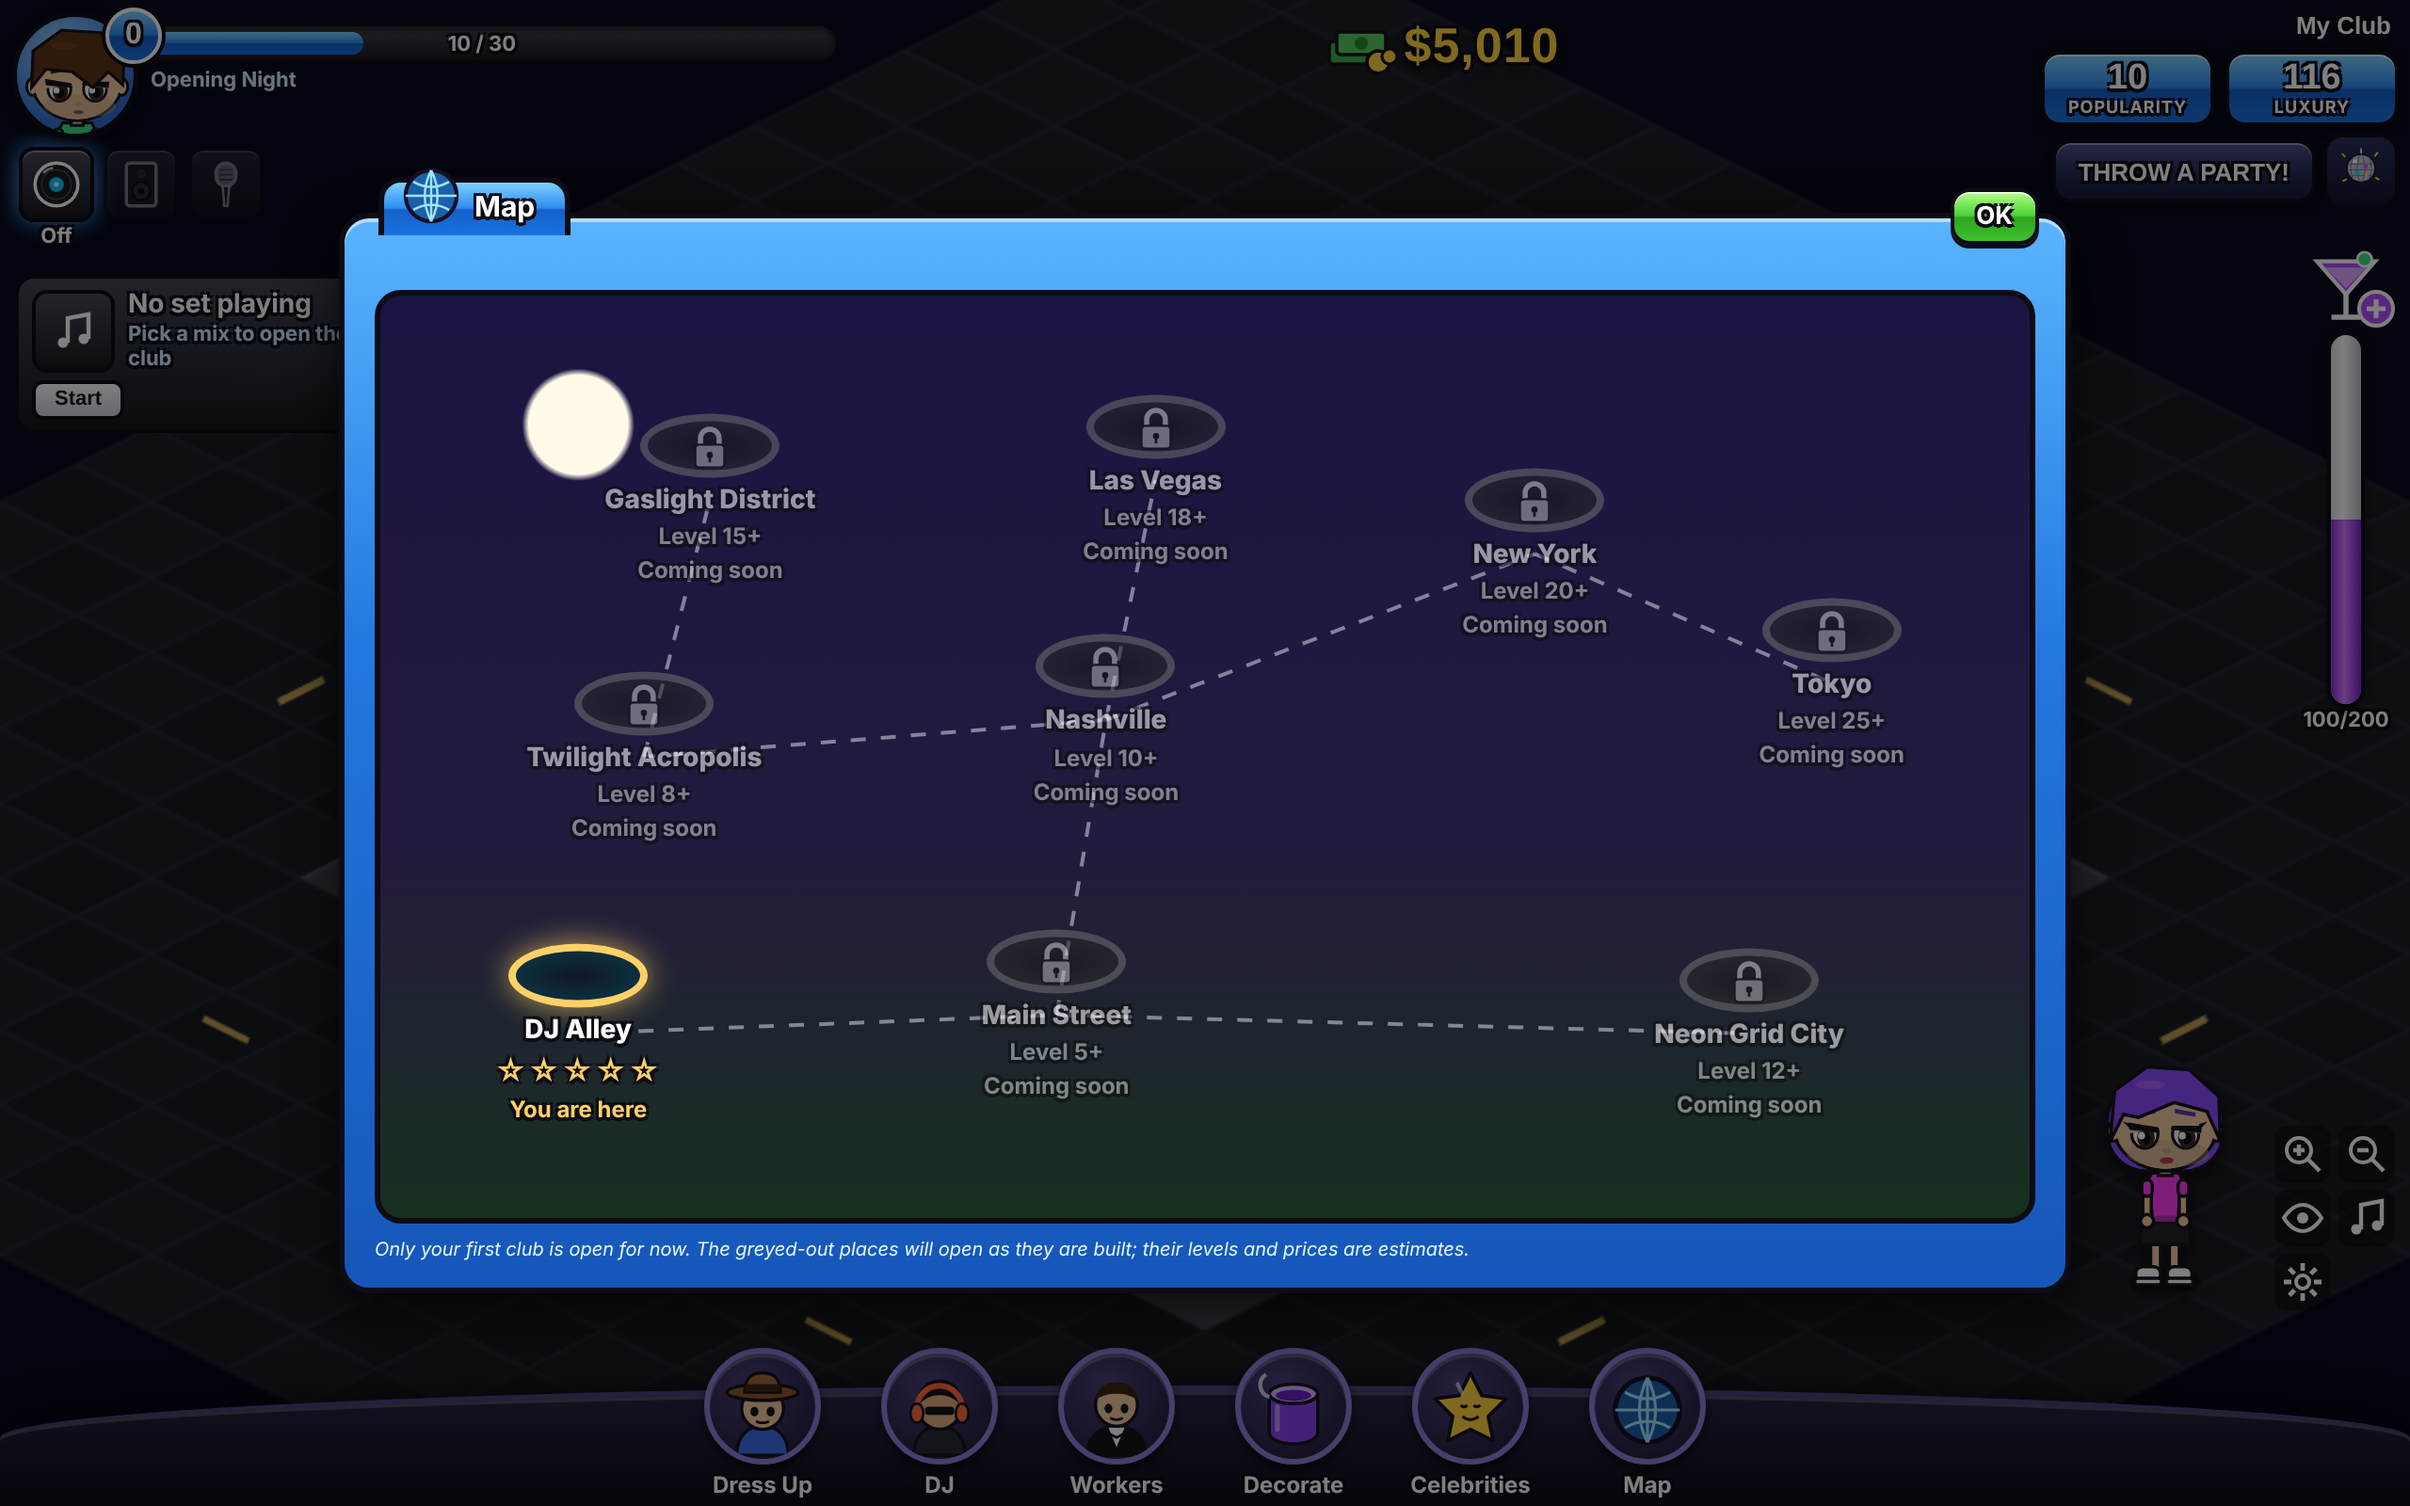
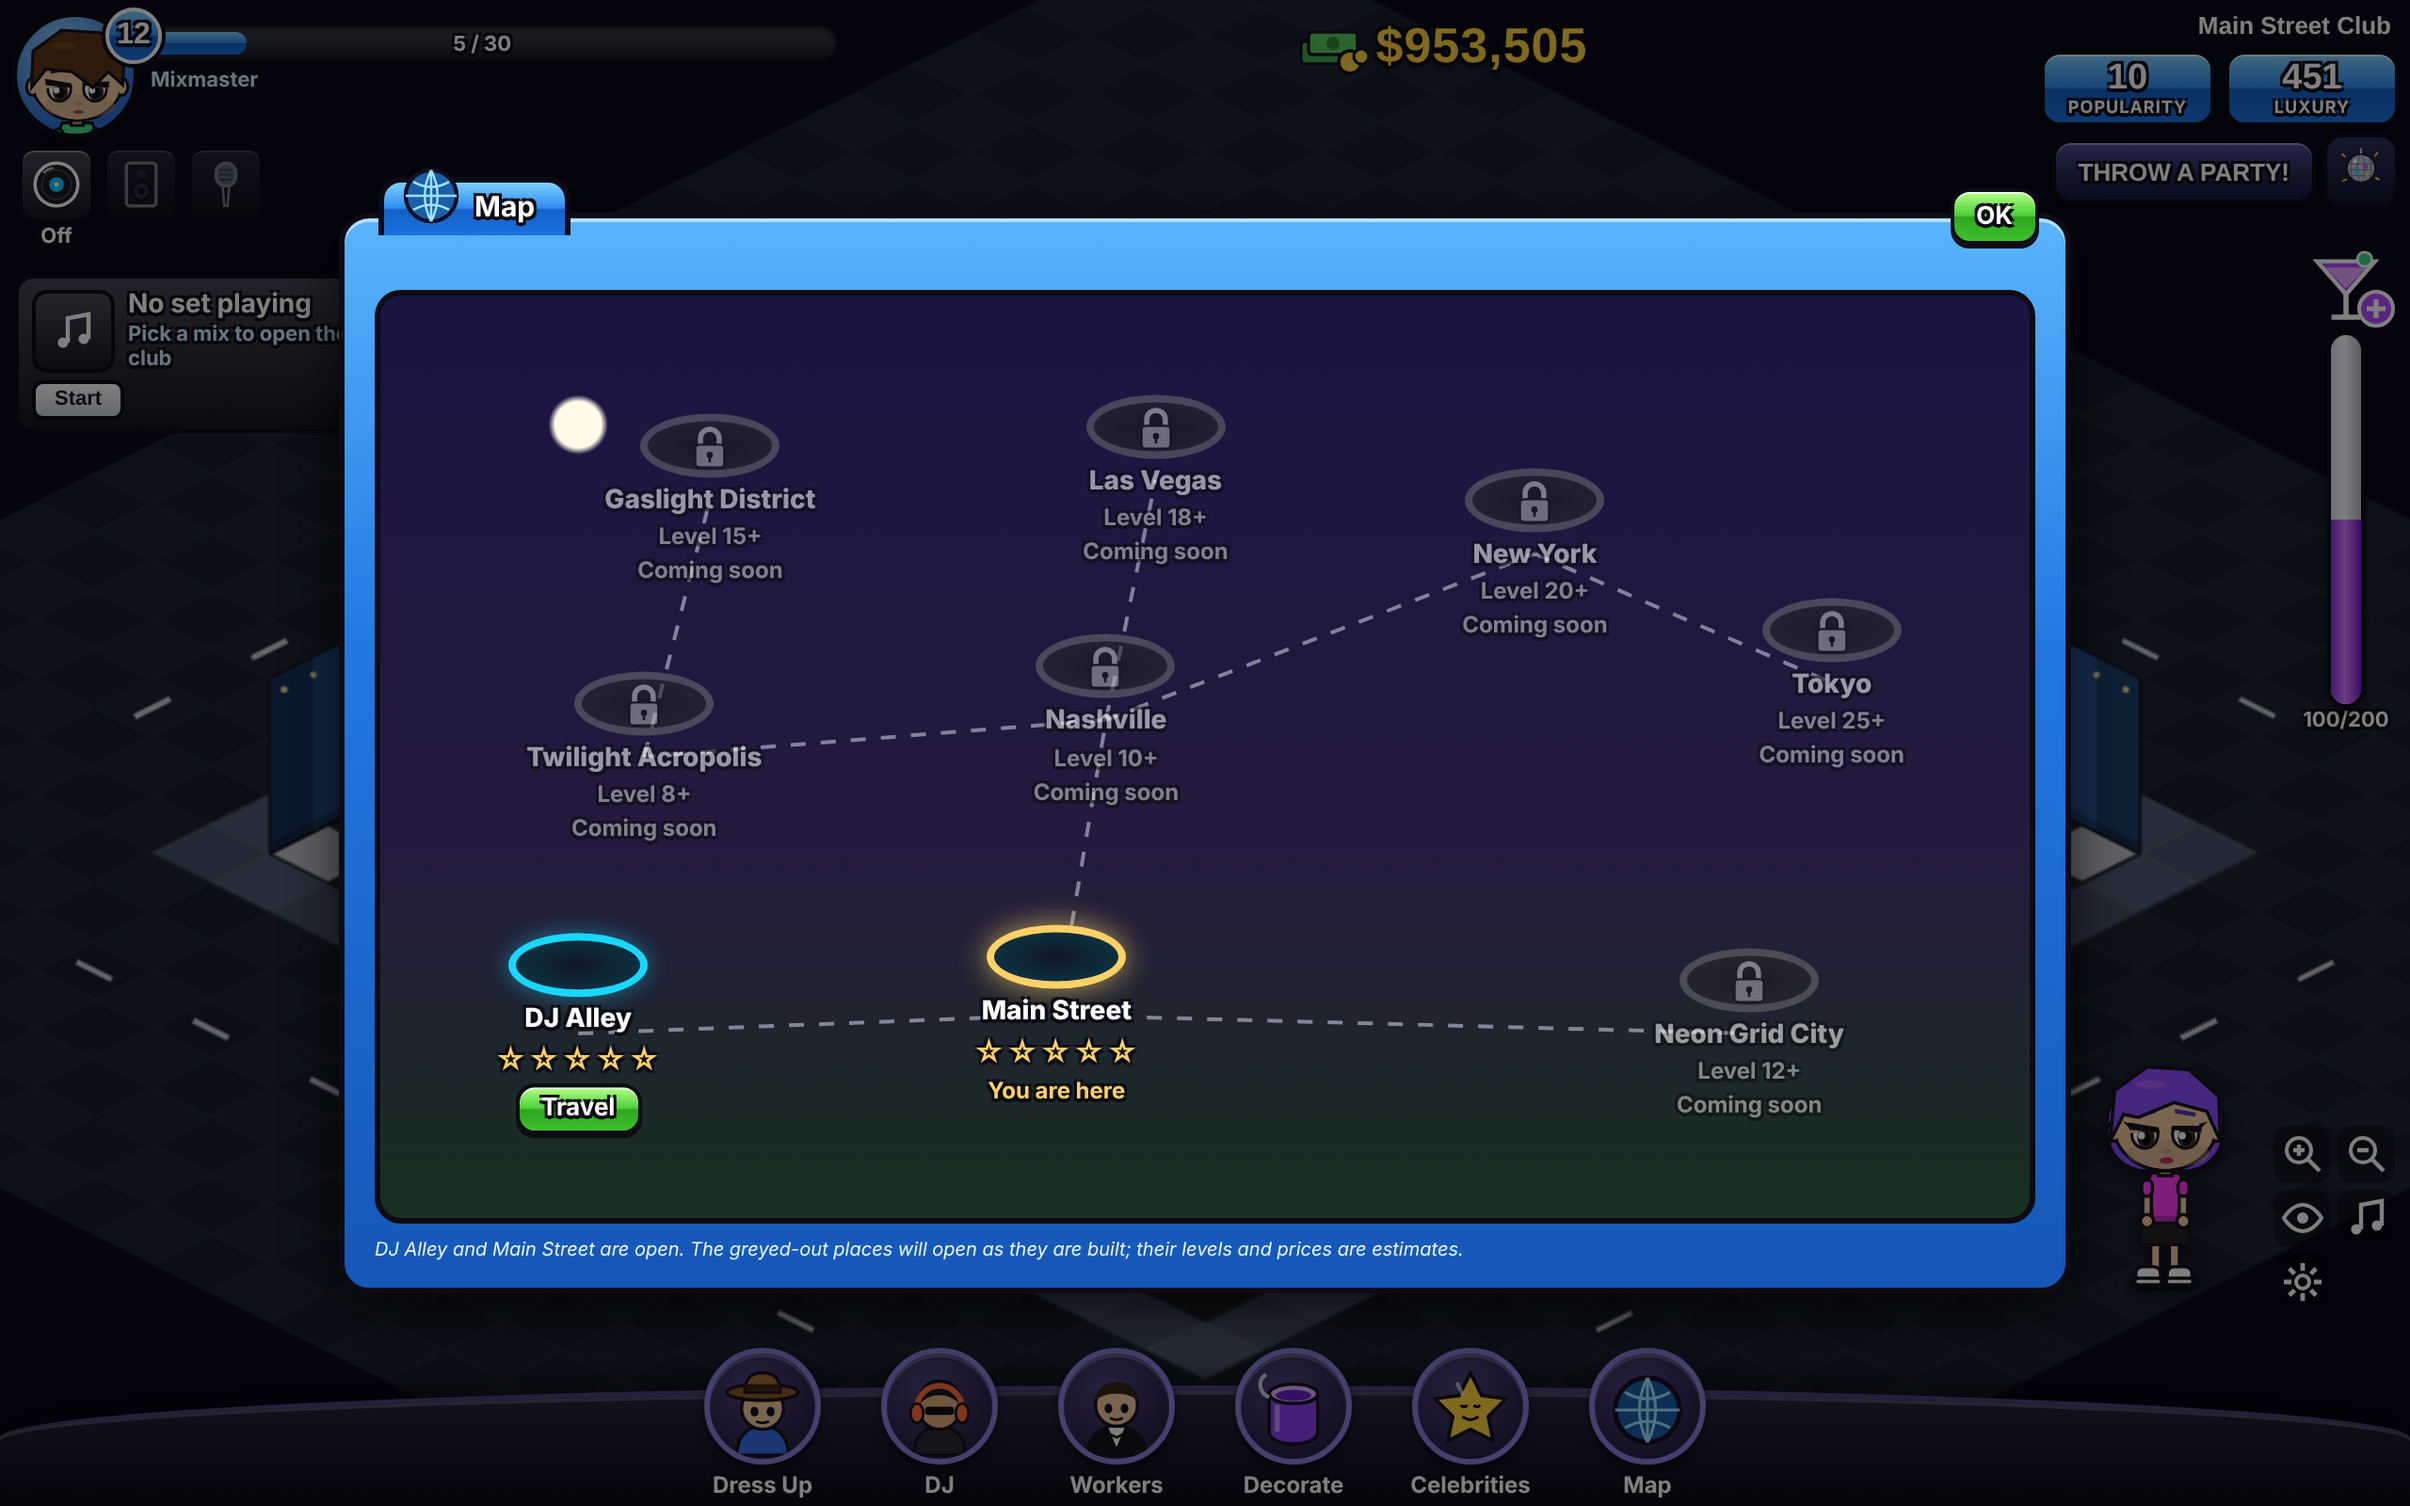
Refresh README screenshots, fix map footnote
Claude-Session: https://claude.ai/code/session_01HxaHByXLB9Yq4WFiRDfAfc

diff --git a/src/ui/UI.ts b/src/ui/UI.ts
@@ -1046,7 +1046,7 @@ export class UI {
         h('div', { class: 'tab-label' }, icon(ICONS.map, 'tab-icon'), 'Map'),
         h('button', { class: 'btn ok corner', onclick: close }, 'OK'),
         h('div', { class: 'map-board' }, h('div', { class: 'map-roads', 'aria-hidden': 'true', html: `<svg viewBox="0 0 100 100" preserveAspectRatio="none">${roads}</svg>` }), ...nodes),
-        h('div', { class: 'placeholder-note' }, 'Only your first club is open for now. The greyed-out places will open as they are built; their levels and prices are estimates.'),
+        h('div', { class: 'placeholder-note' }, 'DJ Alley and Main Street are open. The greyed-out places will open as they are built; their levels and prices are estimates.'),
       ),
     );
     document.body.append(el);

diff --git a/README.md b/README.md
@@ -6,13 +6,15 @@ The layout, characters, furniture and interface are modelled closely on historic
 
 ![Nightclub City - Revive club view](docs/screenshots/club.png)
 
+![Main Street, the second club](docs/screenshots/main-street.png)
+
 | DJ card | Guest card | Decorate |
 |---|---|---|
 | ![DJ card](docs/screenshots/dj.png) | ![Guest card](docs/screenshots/guest.png) | ![Build mode](docs/screenshots/build.png) |
 | **Dressing room** | **Workers** | **Parties** |
 | ![Dressing room](docs/screenshots/dress.png) | ![Workers panel](docs/screenshots/workers.png) | ![Party planner](docs/screenshots/party.png) |
-| **Seating** | **More furniture** | |
-| ![Guests sitting](docs/screenshots/seating.png) | ![More furniture](docs/screenshots/furniture2.png) | |
+| **Seating** | **More furniture** | **World map** |
+| ![Guests sitting](docs/screenshots/seating.png) | ![More furniture](docs/screenshots/furniture2.png) | ![World map](docs/screenshots/map.png) |
 | **Progress** | **Furniture pack** | **Inventory** |
 | ![Progress screen](docs/screenshots/progress.png) | ![Furniture pack](docs/screenshots/furniture.png) | ![Inventory](docs/screenshots/inventory.png) |
 
